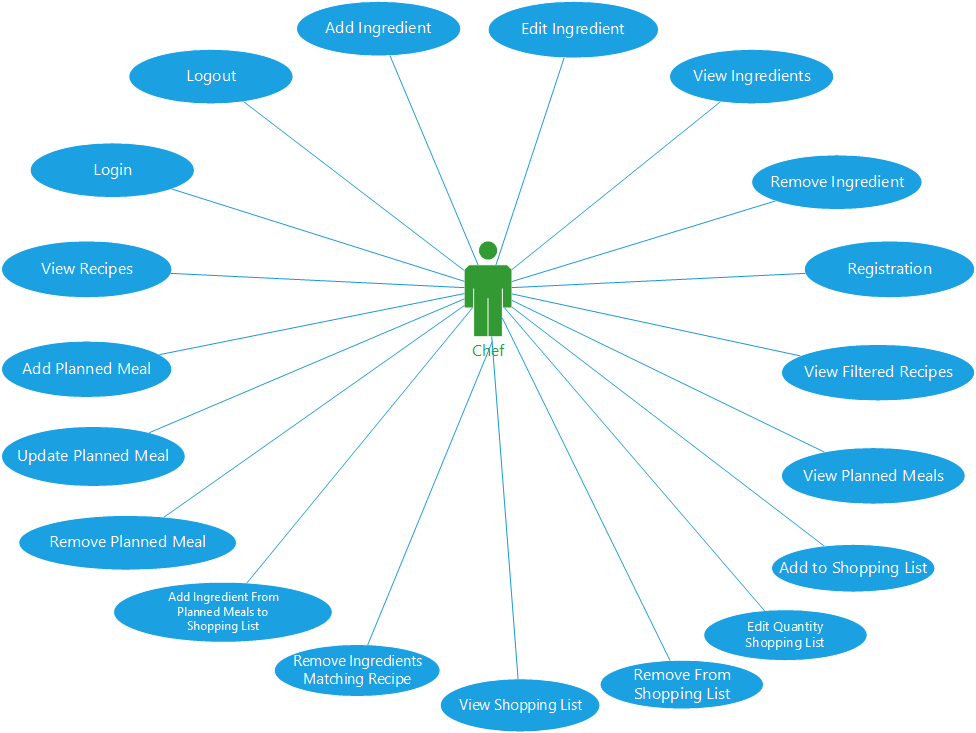
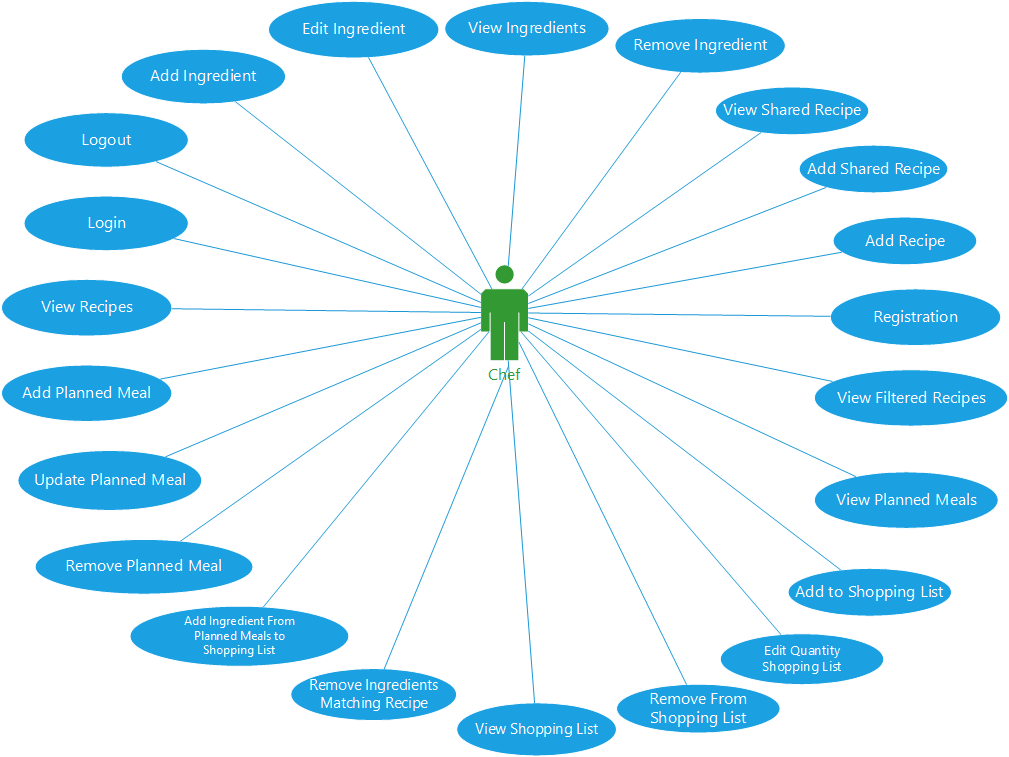
Update Use Case Diagram and Sprint 4 script
Add 'View Shared Recipe', 'Add Shared Recipe' and 'Add Recipe' use cases to the use case diagram .

diff --git a/code/RecipePlannerApplication/RecipePlannerLibrary/Connection.cs b/code/RecipePlannerApplication/RecipePlannerLibrary/Connection.cs
@@ -8,11 +8,11 @@
         /// <summary>
         /// The connection string for the connection to the database.
         /// </summary>
-        public static readonly string ConnectionString = "Server=localhost;Database=capstone;uid=root;pwd=passwordpassword123";
+        public static readonly string ConnectionString = "Server=localhost;Database=capstone;uid=root;pwd=Brandon.2018";
 
         /// <summary>
         /// The connection string for the connection to the database.
         /// </summary>
-        public static readonly string TestsConnectionString = "Server=localhost;Database=capstone_tests;uid=root;pwd=passwordpassword123";
+        public static readonly string TestsConnectionString = "Server=localhost;Database=capstone_tests;uid=root;pwd=Brandon.2018";
     }
 }
